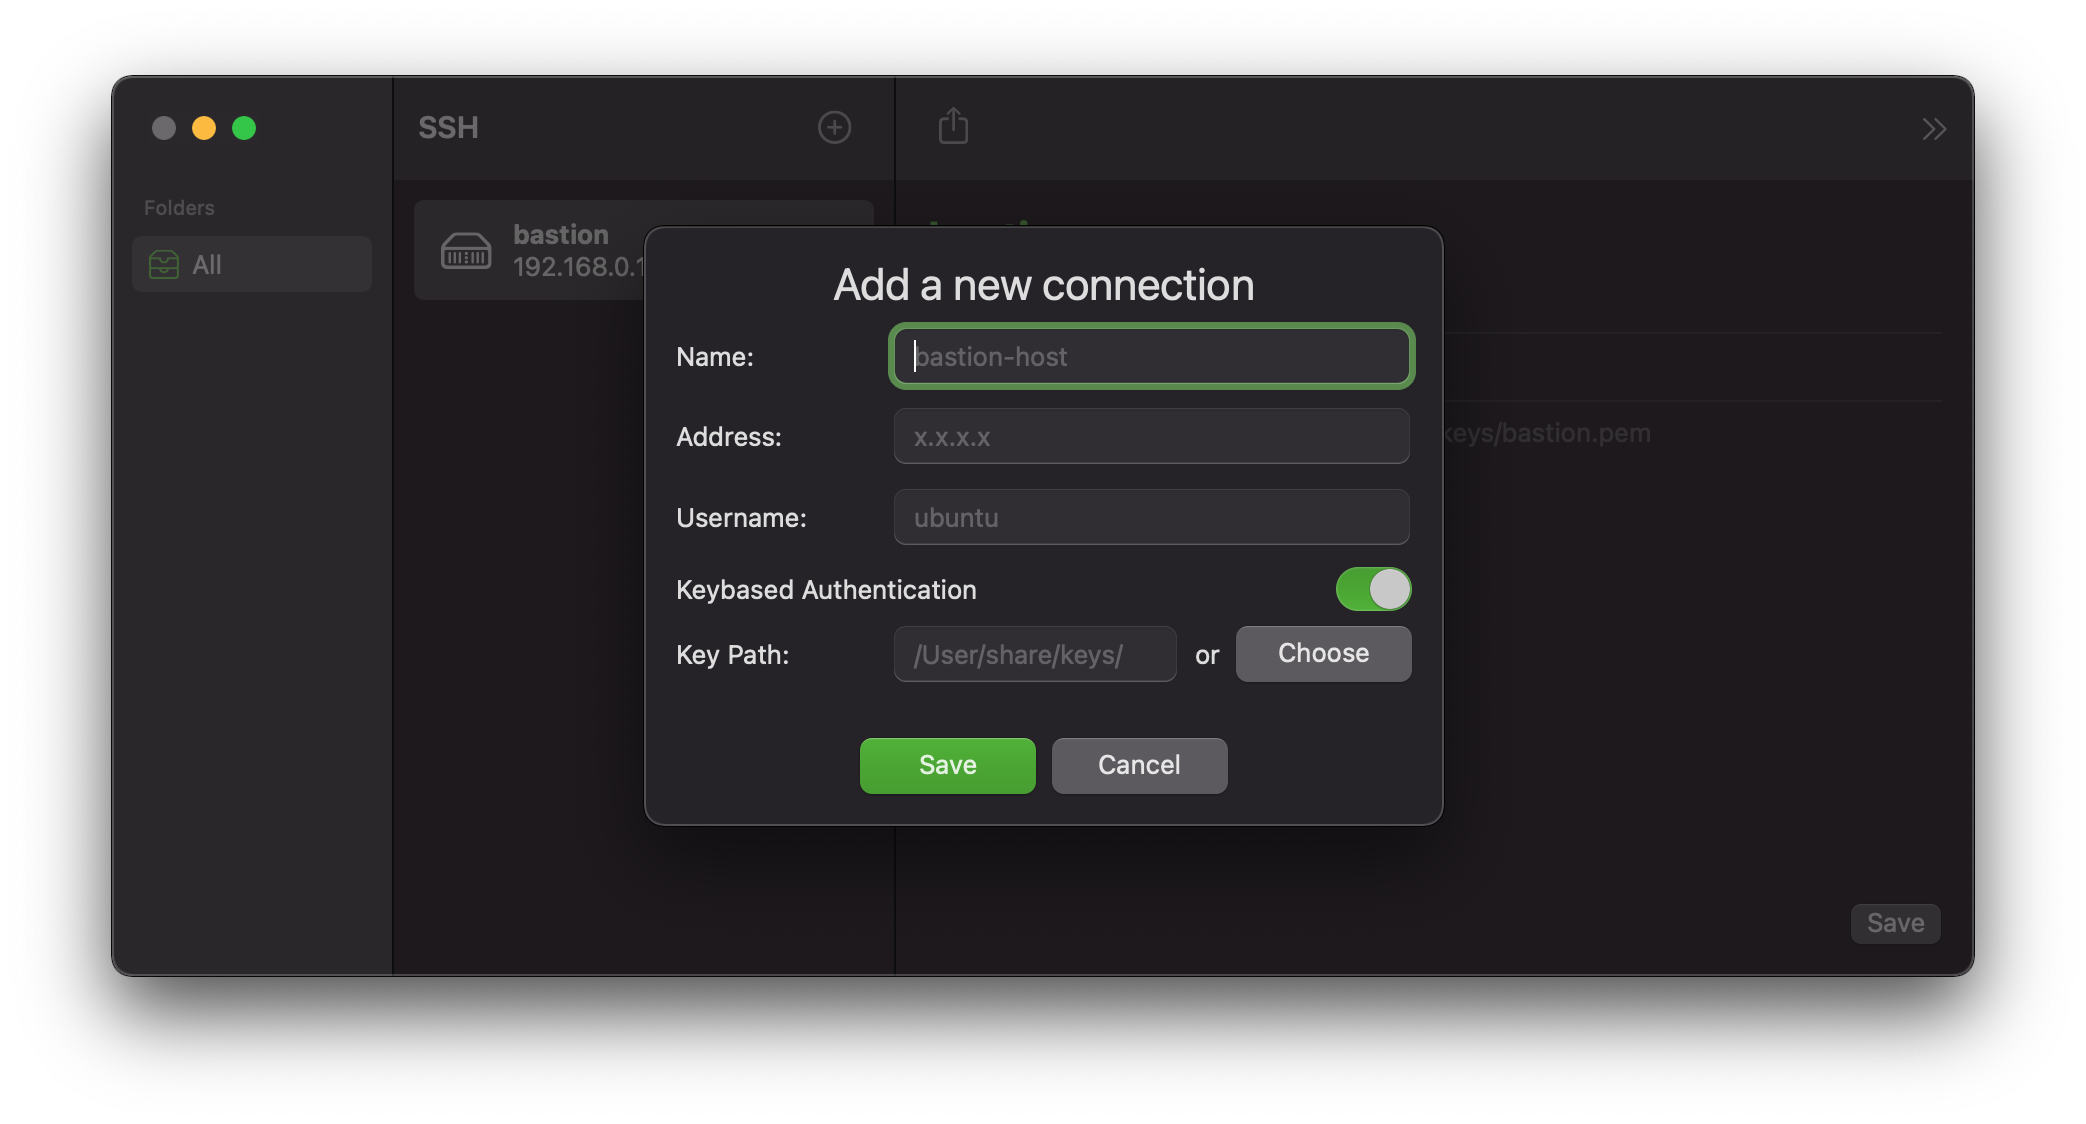
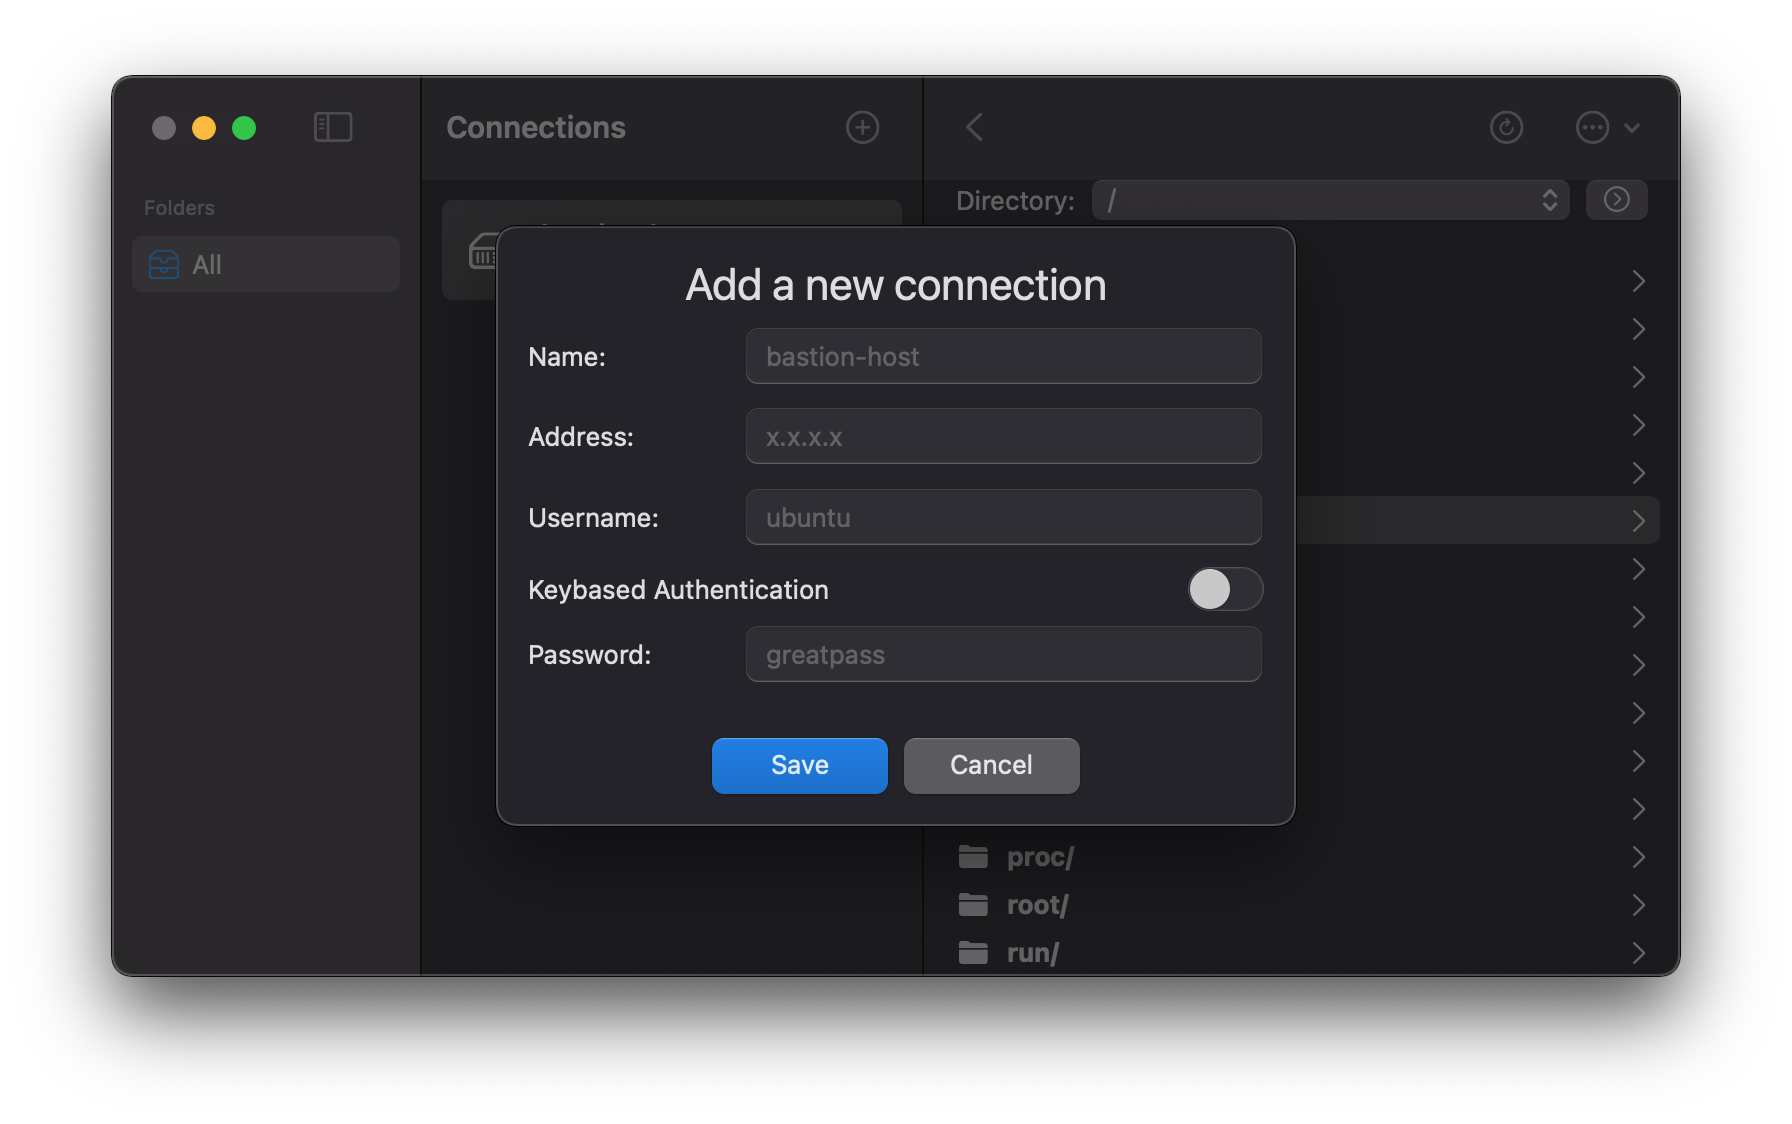
added minor improvements

diff --git a/macSCP/Controller/ConnectionController.swift b/macSCP/Controller/ConnectionController.swift
@@ -8,38 +8,23 @@
 import Foundation
 import NMSSH
 
-//class ConnectionController {
-//    var session: NMSSHSession
-//    var privateKey: String
-//
-//    init(address:String, username:String, password:String, keypath:String) {
-//        self.privateKey = try! String(contentsOfFile: keypath)
-//        self.session = NMSSHSession(host: address, andUsername: username)
-//        self.session.connect()
-//        if self.session.isConnected == true {
-//            self.session.authenticateBy(inMemoryPublicKey: "", privateKey: privateKey, andPassword: nil)
-//        } else {
-//            print("Error in authenticate!")
-//        }
-//    }
-//
-//    func executeCommand(command: String) -> String {
-//        let error: NSErrorPointer = nil
-//        return self.session.channel.execute(command, error: error)
-//    }
-//}
-
-func createSession(address:String, username:String, password:String, keypath:String) -> NMSSHSession {
-    let privateKey = try! String(contentsOfFile: keypath)
+func createSession(address:String, username:String, password:String, keypath:String, iskey: Bool) -> NMSSHSession {
     let session = NMSSHSession(host: address, andUsername: username)
     session.connect()
-    if session.isConnected == true {
-        session.authenticateBy(inMemoryPublicKey: "", privateKey: privateKey, andPassword: nil)
-        let error: NSErrorPointer = nil
-        //        session.channel.execute("ls -la ~/", error: error)
-        print("Connected to the server succesfully.")
+    if iskey {
+        let privateKey = try! String(contentsOfFile: keypath)
+        if session.isConnected == true {
+            session.authenticateBy(inMemoryPublicKey: "", privateKey: privateKey, andPassword: nil)
+            print("Connected to the server succesfully.")
+        } else {
+            print("Error in authenticate!")
+        }
     } else {
-        print("Error in authenticate!")
+        if session.isConnected == true {
+            session.authenticate(byPassword: password)
+        } else {
+            print("Error in authenticate!")
+        }
     }
     return session
 }
@@ -59,12 +44,6 @@ func getFileList(session: NMSSHSession, dir: String) -> [NMSFTPFile] {
 }
 
 func deleteFile(session: NMSSHSession, pathToDelete: String) {
-//    if !session.isConnected {
-//        session.connect()
-//    }
-//    let sftp =  NMSFTP(session: session)
-//    sftp.connect()
-//    return sftp.contentsOfDirectory(atPath: pathToDelete) ?? []
 }
 
 func downloadFile(session: NMSSHSession, pathToDownload: String, downloadDirectory: String) {

diff --git a/macSCP/View/SFTPFileListView.swift b/macSCP/View/SFTPFileListView.swift
@@ -9,6 +9,7 @@ import SwiftUI
 import NMSSH
 
 struct SFTPFileListView: View {
+    @Environment(\.colorScheme) var colorScheme
     var session: NMSSHSession
     var queue = DispatchQueue(label: "listFiles")
     @State var selectedItem: NMSFTPFile?
@@ -103,7 +104,10 @@ struct SFTPFileListView: View {
         })
     }
     
+    
     var body: some View {
+        
+        
         VStack {
             HStack {
                 Picker(selection: $routeToPath, label: Text("Directory:")) {
@@ -111,9 +115,12 @@ struct SFTPFileListView: View {
                         Text($0)
                     }
                 }
+                .pickerStyle(MenuPickerStyle())
+                Spacer()
                 self.goButton
             }
             .padding(.horizontal)
+        
             
             List(directories, id: \.self, selection: $selectedItem) { directory in
                 ConnectionDirView(directory: directory)
@@ -150,6 +157,7 @@ struct SFTPFileListView: View {
             .toolbar {
                 ToolbarItemGroup {
                     self.backButton
+                    Spacer()
                     self.refreshButton
                     Menu {
                         self.makeDirectoyButton
@@ -165,6 +173,6 @@ struct SFTPFileListView: View {
 
 struct SFTPFileListView_Previews: PreviewProvider {
     static var previews: some View {
-        SFTPFileListView(session: NMSSHSession(host: "", andUsername: ""), selectedItem: NMSFTPFile(filename: ""))
+        SFTPFileListView(session: NMSSHSession(host: "test", andUsername: "username"), selectedItem: NMSFTPFile(filename: "newfilename"))
     }
 }

diff --git a/macSCP/View/CreateNewDirectoryView.swift b/macSCP/View/CreateNewDirectoryView.swift
@@ -29,18 +29,22 @@ struct CreateNewDirectoryView: View {
                     .textFieldStyle(RoundedBorderTextFieldStyle())
             }
             Spacer()
-            Button("Save") {
-                directoryName = directory + directoryName
-                print("Making directroy: \(directoryName)")
-                makeDirectoy(session: session, atPath: directoryName)
-                presentationMode.wrappedValue.dismiss()
-            }
-            Button("Cancel") {
-                presentationMode.wrappedValue.dismiss()
+            HStack {
+                Button("Save") {
+                    directoryName = directory + directoryName
+                    print("Making directroy: \(directoryName)")
+                    makeDirectoy(session: session, atPath: directoryName)
+                    presentationMode.wrappedValue.dismiss()
+                }
+                .keyboardShortcut(.defaultAction)
+                Button("Cancel") {
+                    presentationMode.wrappedValue.dismiss()
+                }
+                .keyboardShortcut(.cancelAction)
             }
         }
         .padding()
-        .frame(minWidth: 400, idealWidth: 400, maxWidth: /*@START_MENU_TOKEN@*/.infinity/*@END_MENU_TOKEN@*/, minHeight: 300, idealHeight: 300, maxHeight: /*@START_MENU_TOKEN@*/.infinity/*@END_MENU_TOKEN@*/, alignment: .trailing)
+        .frame(minWidth: 400, idealWidth: 400, maxWidth: /*@START_MENU_TOKEN@*/.infinity/*@END_MENU_TOKEN@*/, minHeight: 200, idealHeight: 200, maxHeight: /*@START_MENU_TOKEN@*/.infinity/*@END_MENU_TOKEN@*/, alignment: .trailing)
     }
 }
 

diff --git a/macSCP/View/SidebarView.swift b/macSCP/View/SidebarView.swift
@@ -19,6 +19,7 @@ struct SidebarView: View {
     @State private var isDefaultItemActive = true
 
     var body: some View {
+        
         let list = List {
             Text("Folders")
                 .font(.caption)
@@ -26,9 +27,23 @@ struct SidebarView: View {
             NavigationLink(destination: ConnectionView(), isActive: $isDefaultItemActive) {
                 Label("All", systemImage: "tray.2")
             }
+            
         }
         .listStyle(SidebarListStyle())
-
+        .frame(idealWidth: .infinity)
+        
+        #if false
+        Button(action: {
+            print("Add a new folder")
+        }, label: {
+            Image(systemName: "plus")
+            Text("New Folder")
+        })
+        .buttonStyle(PlainButtonStyle())
+        .frame(minWidth: 30, idealWidth: 30, maxWidth: .infinity, alignment: .leading)
+        .padding()
+        #endif
+        
         #if os(macOS)
         list.toolbar {
             Button(action: toggleSidebar) {

diff --git a/macSCP/View/SFTPView.swift b/macSCP/View/SFTPView.swift
@@ -14,7 +14,7 @@ struct SFTPView: View {
     
     var body: some View {
         HStack {
-            let session = createSession(address: connection.address ?? "", username: connection.username ?? "", password: connection.password ?? "", keypath: connection.keypath ?? "")
+            let session = createSession(address: connection.address ?? "", username: connection.username ?? "", password: connection.password ?? "", keypath: connection.keypath ?? "", iskey: connection.iskey)
             SFTPFileListView(session: session)
         }
     }

diff --git a/macSCP/View/ConnectionRow.swift b/macSCP/View/ConnectionRow.swift
@@ -20,7 +20,8 @@ struct ConnectionRow: View {
                 Text(connection.label ?? "")
                     .font(.headline)
                     .lineLimit(1)
-                Text(connection.address ?? "")
+//                Text(connection.address ?? "")
+                Text("192.168.0.1")
             }
             Spacer(minLength: 20)
             Button(action: {

diff --git a/README.md b/README.md
@@ -7,8 +7,14 @@ Written in Swiftui to bring power and perfomance of MacOS native framework.
 Beautifully desinged to make it easy on eyes.
 
 # Preview
-![Main Screen](/Preview/main_screen.png?raw=true "Main Screen")
+![File Browser](/Preview/file_browser.png?raw=true "File Browser")
 ![Add a new connection](/Preview/add_new_connection.png?raw=true "Add a new connection")
+![Add a new folder](/Preview/add_new_folder.png?raw=true "Add a new folder")
+
+# Upcoming Features
+- Upload folder
+- Download a folder
+- Edit file without reuploading
 
 # Note
 
